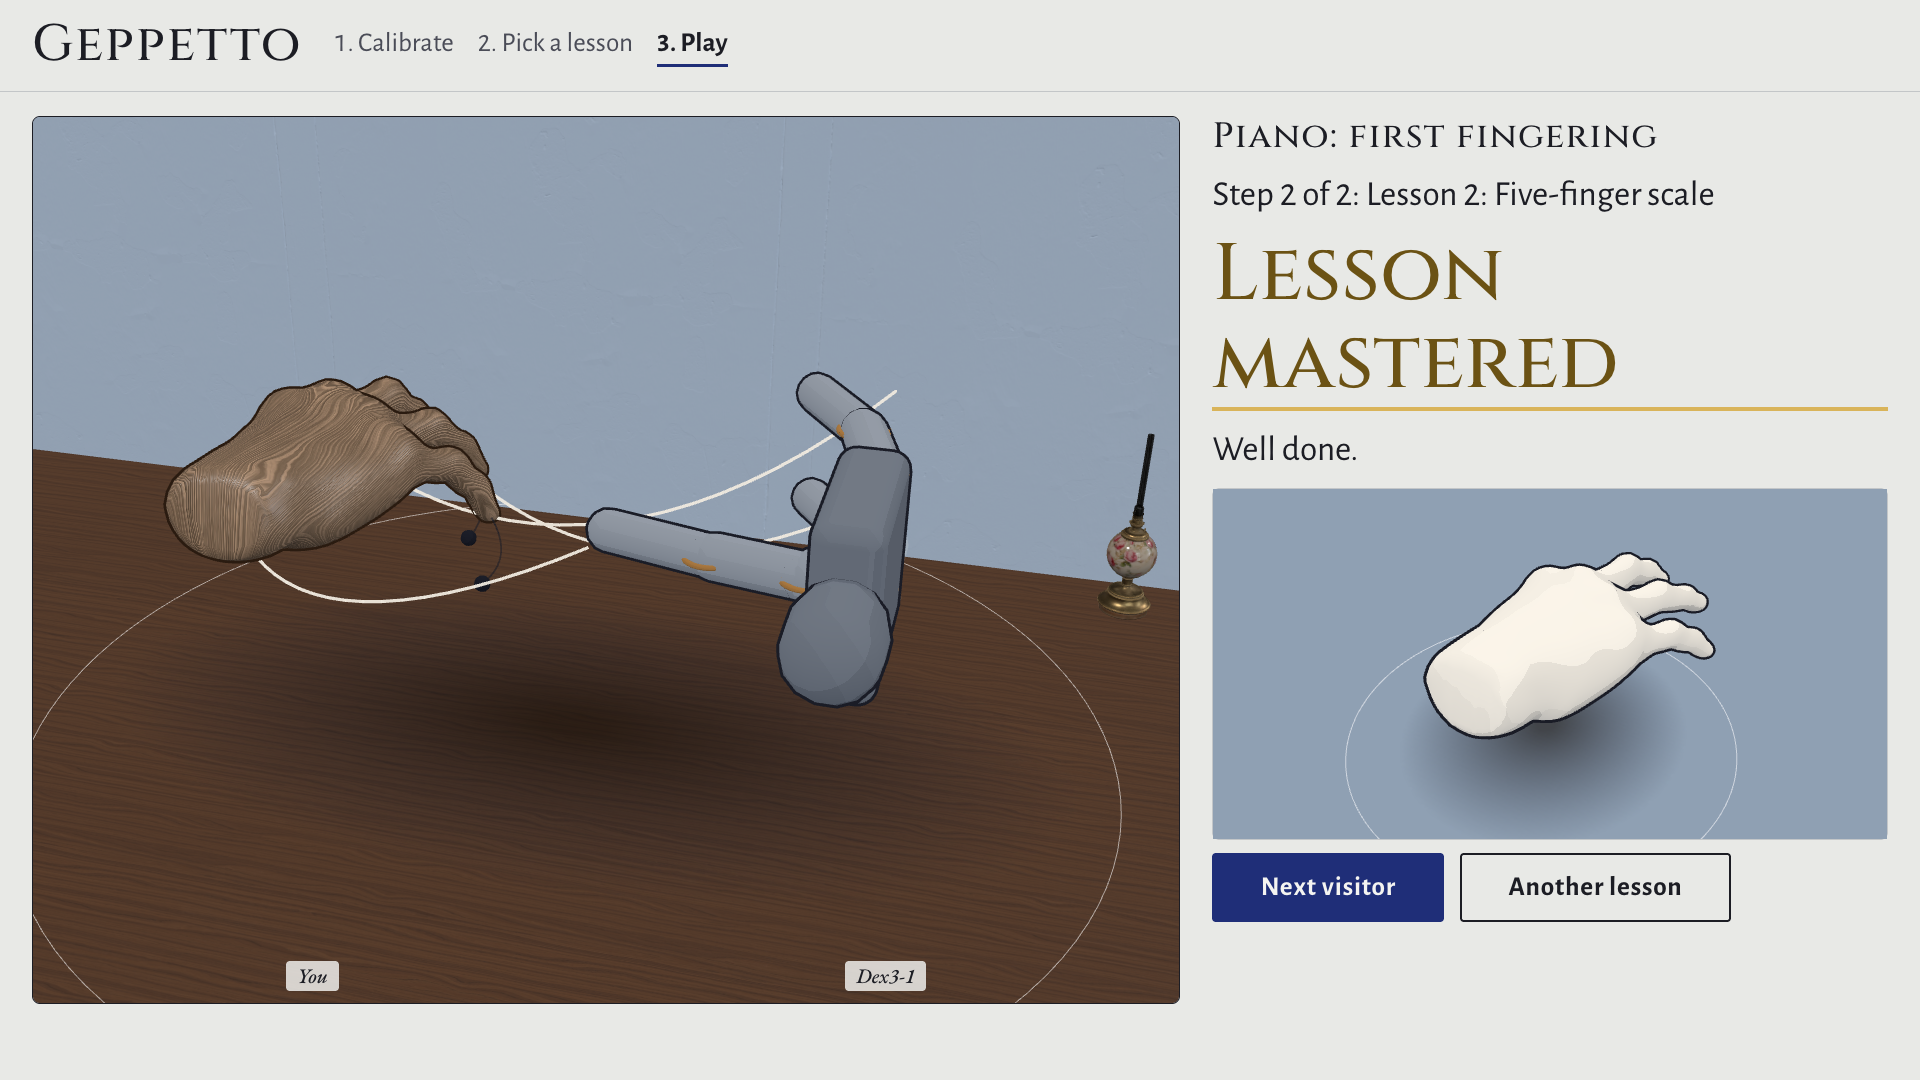
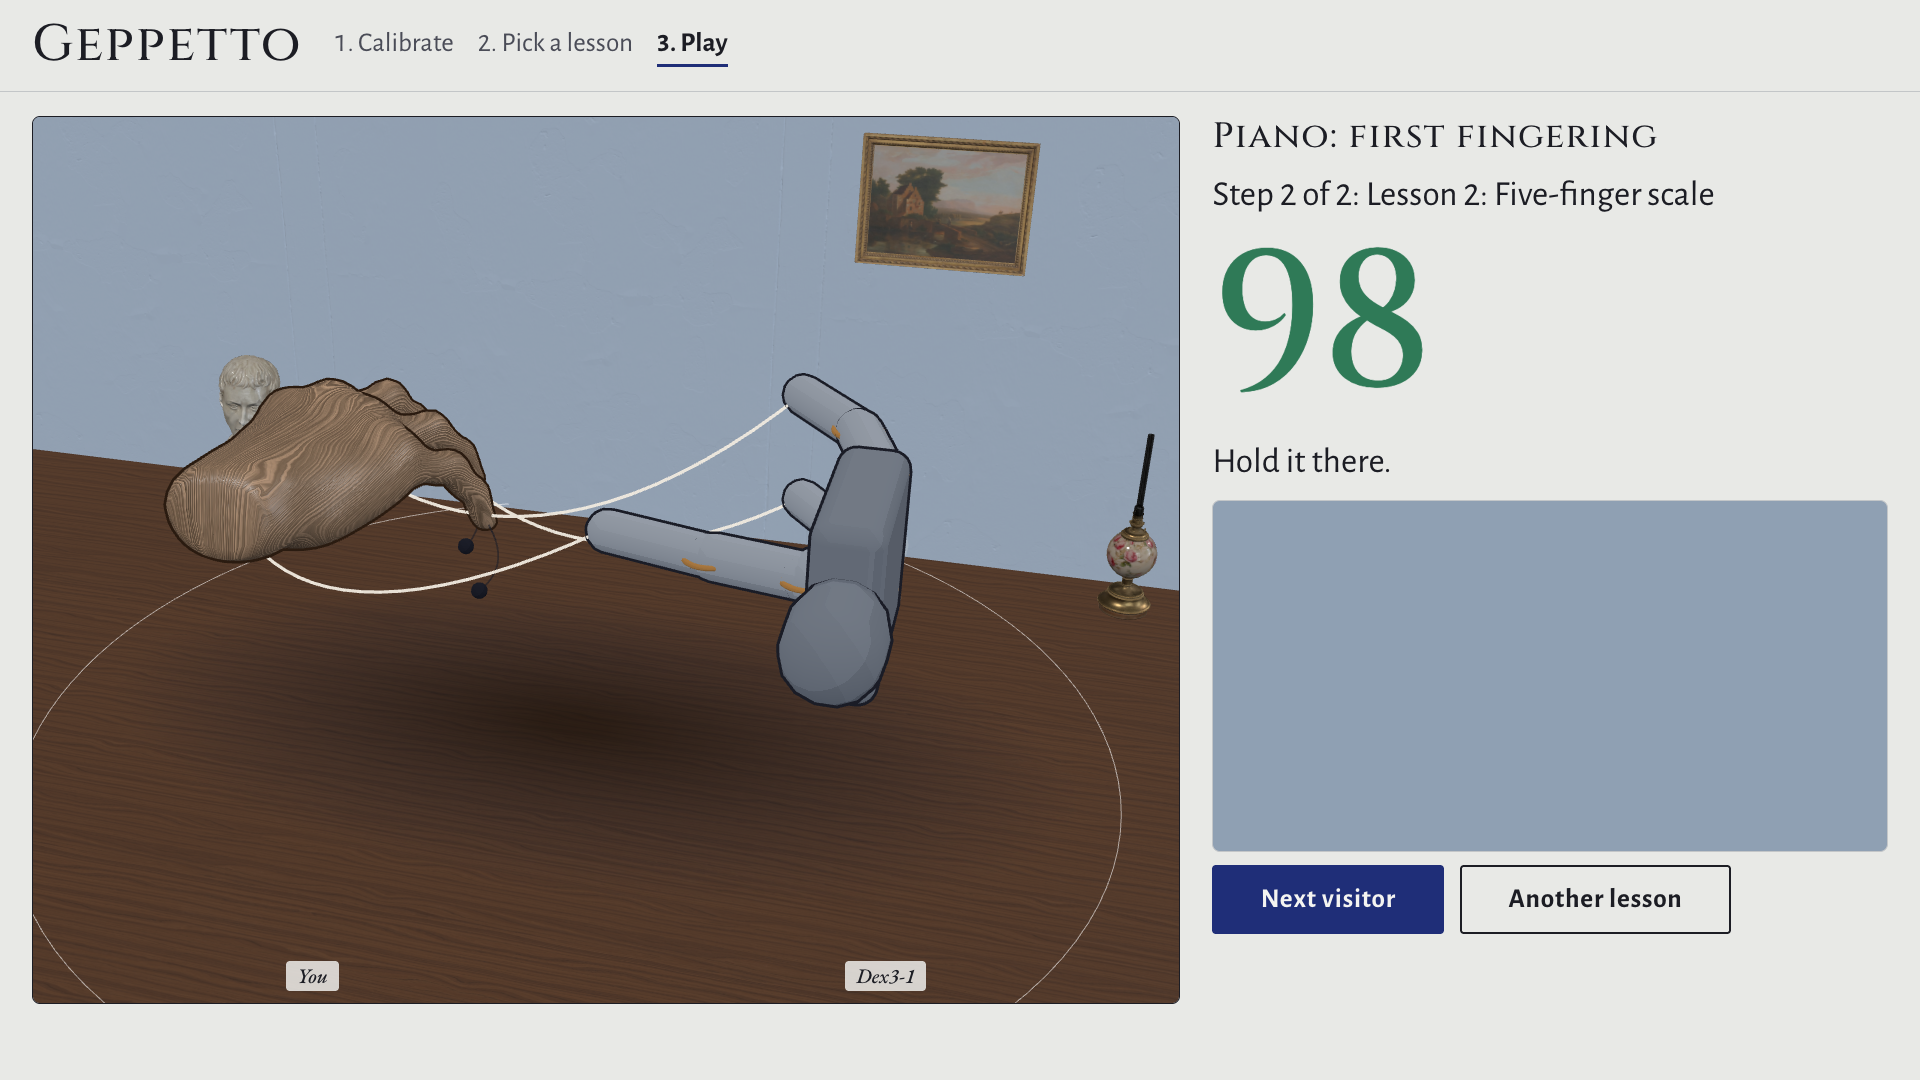
PreviewHost: ignore context loss from a disposed canvas; demo walk screenshots against python -m core --fake
A canvas that unmounts fires its webglcontextlost later. That event bumped the epoch and rebuilt the next preview canvas, which then drew nothing (the empty target hand on /demo against the core). Only the canvas on screen may trigger a rebuild now.

diff --git a/frontend/src/three/Preview.tsx b/frontend/src/three/Preview.tsx
@@ -39,6 +39,8 @@ export function PreviewHost({
   const [count, setCount] = useState(0);
   const [epoch, setEpoch] = useState(0);
   const host = useRef<HTMLDivElement>(null);
+  // The canvas now on screen. A disposed canvas fires its own context loss later; that must not rebuild the new one.
+  const current = useRef<HTMLCanvasElement | null>(null);
   const api = useMemo<PreviewApi>(
     () => ({
       register: () => {
@@ -63,8 +65,10 @@ export function PreviewHost({
               style={{ pointerEvents: "none" }}
               onCreated={({ gl }) => {
                 const el = gl.domElement;
+                current.current = el;
                 el.addEventListener("webglcontextlost", (e) => {
                   e.preventDefault();
+                  if (current.current !== el) return;
                   window.setTimeout(() => setEpoch((n) => n + 1), 250);
                 });
               }}
